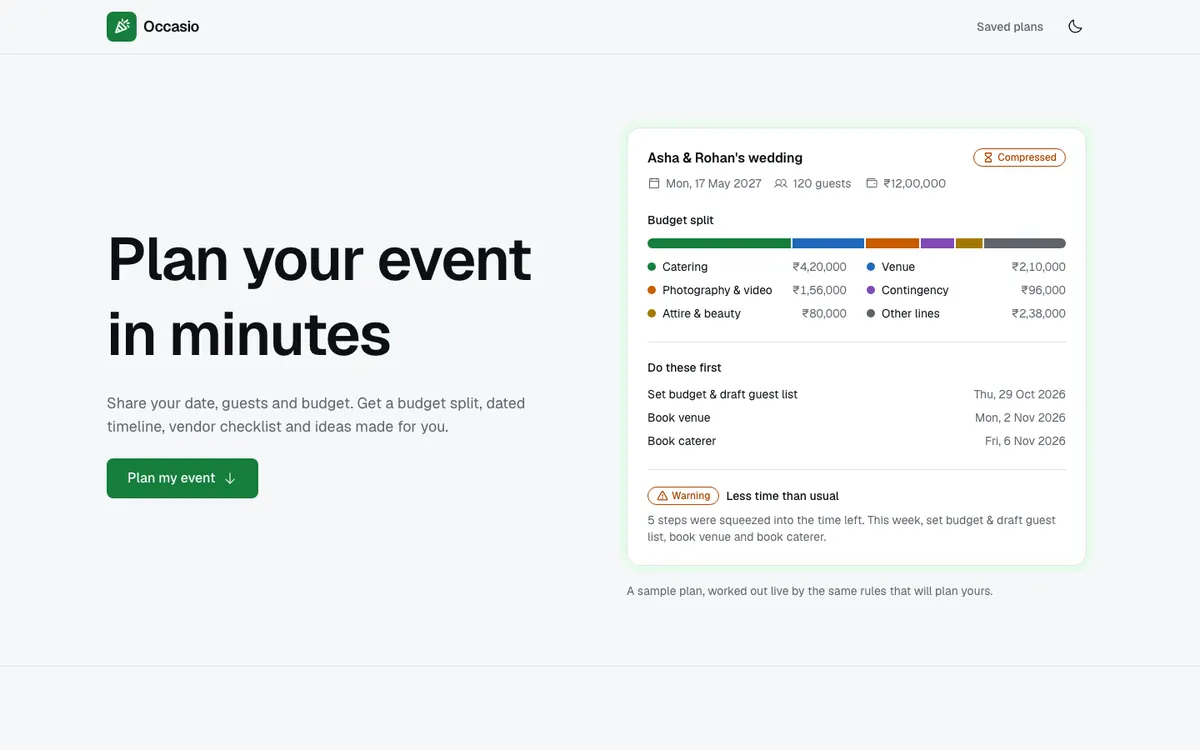
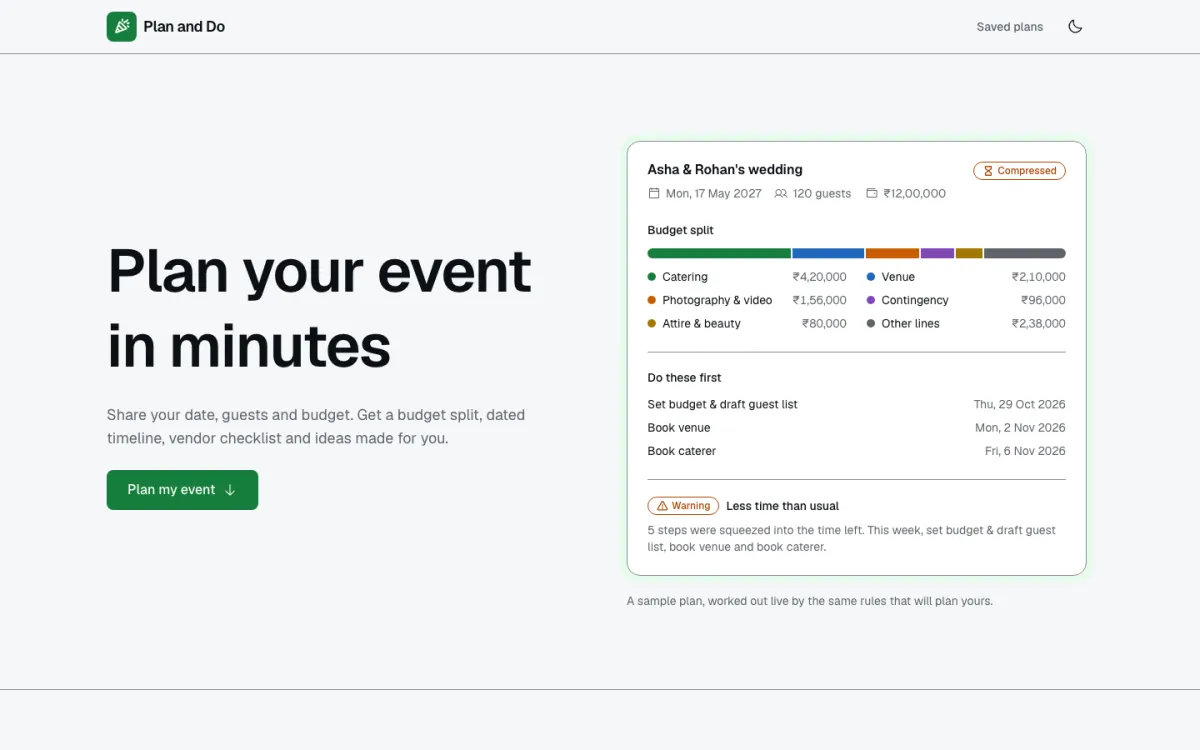
.

diff --git a/src/lib/ics.ts b/src/lib/ics.ts
@@ -21,12 +21,12 @@ export function buildCalendar(
   const lines = [
     "BEGIN:VCALENDAR",
     "VERSION:2.0",
-    "PRODID:-//Occasio//Event planner//EN",
+    "PRODID:-//Plan and Do//Event planner//EN",
     "CALSCALE:GREGORIAN",
     "METHOD:PUBLISH",
     ...entries.flatMap((entry) => [
       "BEGIN:VEVENT",
-      `UID:${calendarId}-${entry.id}@occasio`,
+      `UID:${calendarId}-${entry.id}@plan-and-do`,
       `DTSTAMP:${stamp}`,
       `DTSTART;VALUE=DATE:${compact(entry.date)}`,
       `DTEND;VALUE=DATE:${compact(addDays(entry.date, 1))}`,

diff --git a/src/app/layout.tsx b/src/app/layout.tsx
@@ -12,7 +12,7 @@ import "./globals.css";
 const geist = Geist({ variable: "--font-geist-sans", subsets: ["latin"], display: "swap" });
 
 export const metadata: Metadata = {
-  title: { default: "Occasio: plan your celebration", template: "%s | Occasio" },
+  title: { default: "Plan and Do: organise your celebration", template: "%s | Plan and Do" },
   description:
     "A planning assistant for weddings, birthdays and community events: a budget split, a dated timeline, a vendor checklist and ideas made for you.",
 };

diff --git a/src/components/site-footer.tsx b/src/components/site-footer.tsx
@@ -4,7 +4,7 @@ export function SiteFooter() {
   return (
     <footer className="mt-auto border-t print:hidden">
       <PageContainer className="flex flex-col gap-2 py-8 text-sm text-muted-foreground sm:flex-row sm:justify-between">
-        <p>Occasio plans weddings, birthdays and community events.</p>
+        <p>Plan and Do organises weddings, birthdays and community events.</p>
         <p>Plans stay in this browser. Costs are rules of thumb, not quotes.</p>
       </PageContainer>
     </footer>

diff --git a/src/features/plan/plan-view.tsx b/src/features/plan/plan-view.tsx
@@ -125,7 +125,7 @@ function PlanDetails({ plan, today }: { plan: SavedPlan; today: IsoDate }) {
 
   return (
     <main id="main" tabIndex={-1} className="outline-none">
-      <title>{`${title} | Occasio`}</title>
+      <title>{`${title} | Plan and Do`}</title>
       <PageContainer className={cn("flex flex-col gap-8", SPACE.pageY)}>
         <PlanHeader title={title} brief={plan.brief} context={skeleton.context} today={today} onDelete={deletePlan} />
         {isPast && (

diff --git a/src/components/site-header.tsx b/src/components/site-header.tsx
@@ -12,7 +12,7 @@ export function SiteHeader() {
           className="flex min-h-11 items-center gap-2 rounded-lg text-lg font-semibold tracking-tight outline-none focus-visible:ring-3 focus-visible:ring-ring/50"
         >
           <BrandMark />
-          Occasio
+          Plan and Do
         </Link>
         <nav aria-label="Main" className="flex items-center gap-1">
           <Link

diff --git a/src/components/brand-mark.tsx b/src/components/brand-mark.tsx
@@ -1,6 +1,6 @@
 import { ConfettiIcon } from "@phosphor-icons/react/ssr";
 
-/** The Occasio mark: the confetti glyph on the brand green. */
+/** The Plan and Do mark: the confetti glyph on the brand green. */
 export function BrandMark() {
   return (
     <span className="flex size-9 items-center justify-center rounded-lg bg-primary text-primary-foreground">

diff --git a/src/lib/__tests__/ics.test.ts b/src/lib/__tests__/ics.test.ts
@@ -23,7 +23,7 @@ describe("buildCalendar", () => {
   it("uses_crlf_line_endings_and_a_stable_uid", () => {
     expect([
       calendar.endsWith("END:VCALENDAR\r\n"),
-      calendar.includes("UID:plan-1-book-venue@occasio"),
+      calendar.includes("UID:plan-1-book-venue@plan-and-do"),
     ]).toEqual([true, true]);
   });
 

diff --git a/plan/README.md b/plan/README.md
@@ -1,9 +1,9 @@
-# Occasio: Project Plan
+# Plan and Do: Project Plan
 
-**Occasio** (working name, rename freely) is our entry for **Challenge 5: Celebration & Event
-Planner**. It is a GenAI planning assistant: it takes a short event brief and returns a budget,
-a timeline, a vendor checklist and personalised ideas for weddings, birthdays and community
-events. Users can then refine the plan by chatting with it.
+**Plan and Do** is our entry for **Challenge 5: Celebration & Event Planner**. It is a GenAI
+planning assistant: it takes a short event brief and returns a budget, a timeline, a vendor
+checklist and personalised ideas for weddings, birthdays and community events. Users can then
+refine the plan by chatting with it.
 
 The build follows this folder. Whoever does the build, human or AI coding agent, MUST read it
 together with [`../engineering-rules/`](../engineering-rules/) before writing code.

diff --git a/README.md b/README.md
@@ -1,16 +1,16 @@
-# Occasio
+# Plan and Do
 
 A GenAI planning assistant for weddings, birthdays and community events. Describe the event in a
 two-minute form and get a budget split, a dated timeline, a vendor checklist and personalised
 ideas. Then change the plan by talking to it.
 
-![The Occasio home page: a headline and a live sample plan](docs/screenshots/home.webp)
+![The Plan and Do home page: a headline and a live sample plan](docs/screenshots/home.webp)
 
 ## 1. Chosen vertical
 
 **Celebration & Event Planner (Challenge 5).**
 
-Occasio is for people who plan an event without a professional planner:
+Plan and Do is for people who plan an event without a professional planner:
 
 - **First-time hosts** planning a wedding or a milestone birthday, who need to know what to do
   and when, where the money should go and which vendors to book.
